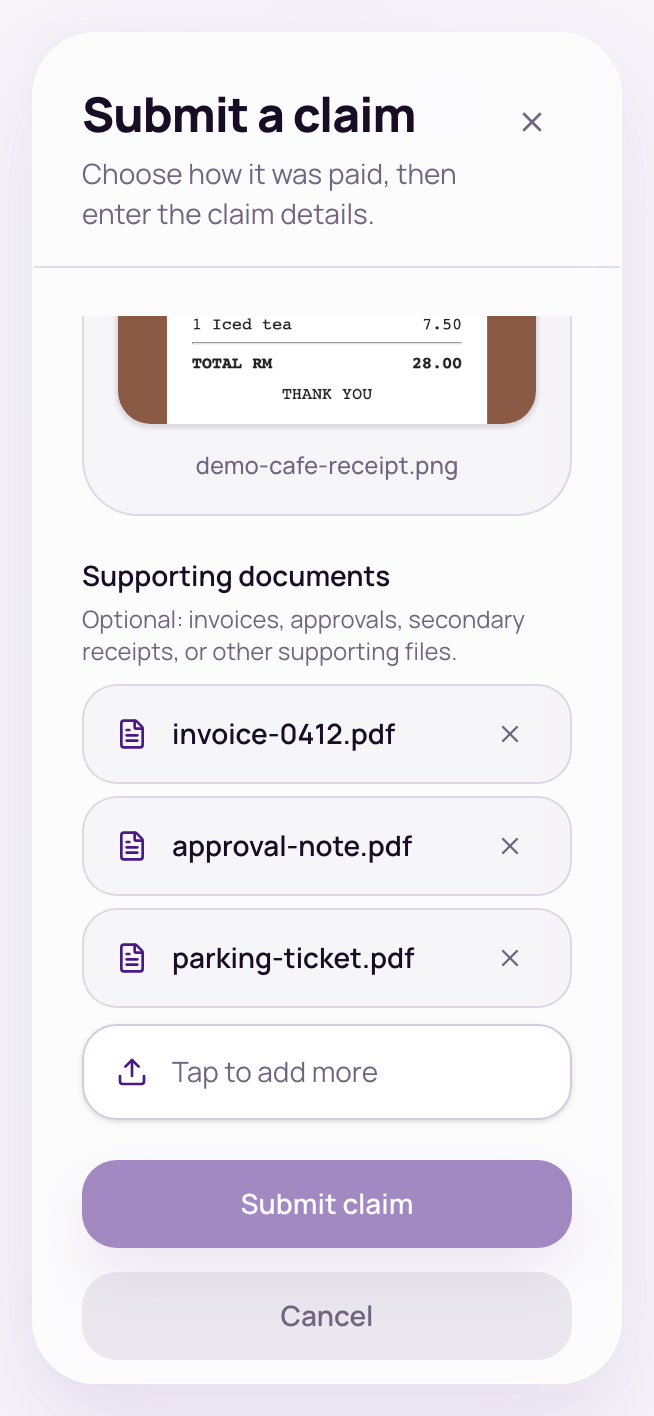
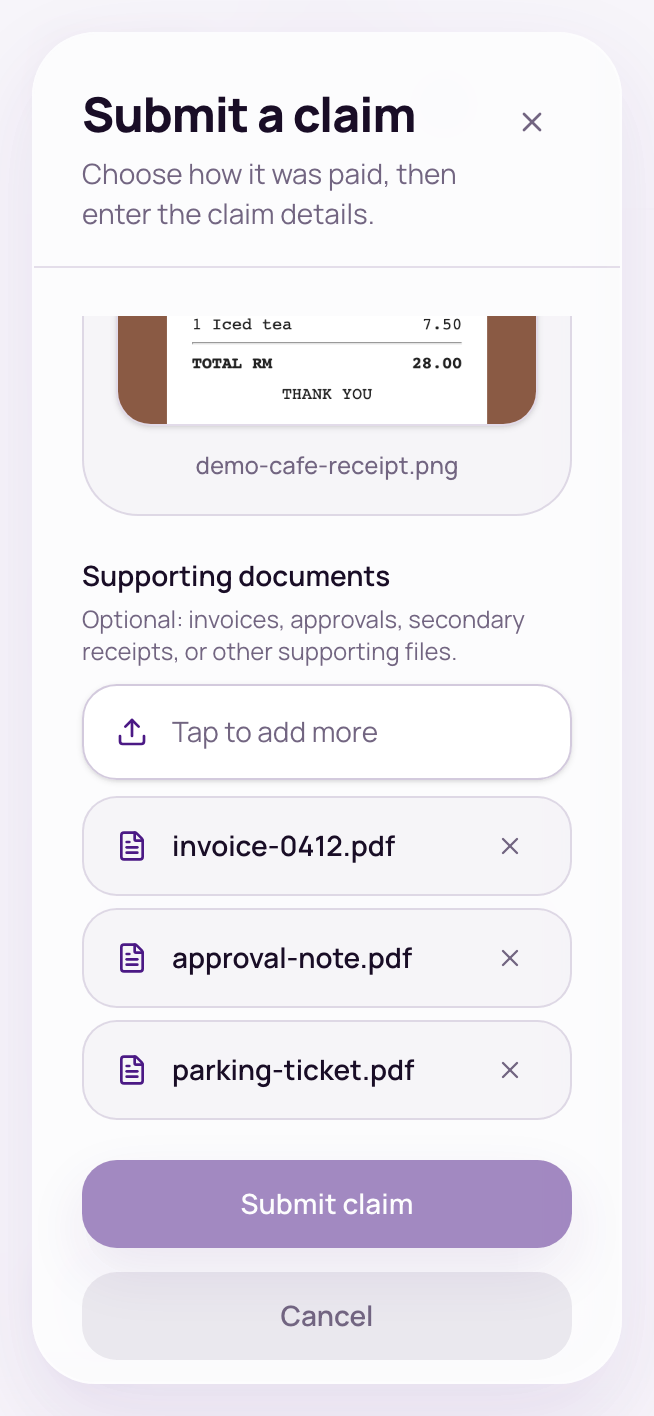
docs: what's new, API docs and guides for optional receipts and Xero attachments

diff --git a/user-guide/altomatehr-employee-guide.html b/user-guide/altomatehr-employee-guide.html
@@ -7,7 +7,7 @@
   Bookmark: this page is correct as of this commit on main. The next update
   re-checks every user-visible change after it — from any branch — then
   moves it forward.
-  user-guide-covered-up-to: 1fcdabc
+  user-guide-covered-up-to: 61cde11
 -->
 <html lang="en">
 <head>
@@ -705,11 +705,12 @@
       <li><h4>Who paid?</h4><p><strong>My own money</strong> (you'll be reimbursed) or <strong>Company money</strong>
         (a company card or account).</p></li>
       <li><h4>What kind?</h4><p><strong>Expense claim</strong> or <strong>Mileage claim</strong>.</p></li>
-      <li><h4>Attach the main receipt</h4><p>For an expense, the main receipt is required. Attach it first — until you do,
-        both buttons stay greyed out. Then tap <span class="btn-name">Read receipt &amp; continue</span> and the app reads
-        it and fills in the details. Prefer to type them yourself? Tap
-        <span class="btn-name">Skip AI and fill manually</span>. That only skips the reading — your receipt is still
-        attached to the claim.</p></li>
+      <li><h4>Attach the main receipt</h4><p>A receipt is optional, but attaching one makes the claim easier to approve. Tap the
+        upload box and choose a photo or PDF. Then tap <span class="btn-name">Read receipt &amp; continue</span> and the
+        app reads it and fills in the details. No receipt to hand? The same button reads
+        <span class="btn-name">Continue</span> and takes you straight to the form. Prefer to type the details yourself?
+        Tap <span class="btn-name">Skip AI and fill manually</span>. That only skips the reading — if you attached a
+        receipt, it's still attached to the claim.</p></li>
       <li><h4>Check the details, then submit</h4><p><strong>Check every field — especially the amount.</strong> Then
         <span class="btn-name">Submit claim</span>.</p></li>
     </ol>
@@ -721,7 +722,8 @@
       <li><strong>Spending at</strong> — the shop or supplier (required for company money).</li>
       <li><strong>Supporting documents</strong> — anything else, like an invoice. Each time you tap
         <span class="btn-name">Tap to add supporting documents</span> and choose files, they're added to the list, so
-        you can pick a few now and more later. Every file is listed with a ✕ button to remove it. A claim can have up
+        you can pick a few now and more later. The button stays above the list and changes to
+        <span class="btn-name">Tap to add more</span> once you have a file; every file below it has a ✕ button to remove it. A claim can have up
         to 10; once you reach that, the button greys out.</li>
     </ul>
     <h3>Mileage claims</h3>
@@ -739,7 +741,7 @@
           <p class="shot-cap">Who paid?</p>
         </div>
         <div class="shot-item">
-          <img src="shots/employee/claim-receipt.png" alt="The Attach the main receipt step with a receipt attached, and the Read receipt &amp; continue and Skip AI and fill manually buttons" loading="lazy">
+          <img src="shots/employee/claim-receipt.png" alt="The Attach the main receipt step with no file attached, marked Optional, with the Continue and Skip AI and fill manually buttons both available" loading="lazy">
           <p class="shot-cap">Attach the main receipt</p>
         </div>
         <div class="shot-item">
@@ -747,7 +749,7 @@
           <p class="shot-cap">Claim details</p>
         </div>
         <div class="shot-item">
-          <img src="shots/employee/claim-supporting.png" alt="The claim details form with three supporting documents listed, each with a remove button, and Tap to add more" loading="lazy">
+          <img src="shots/employee/claim-supporting.png" alt="The claim details form with Tap to add more above a list of three supporting documents, each with a remove button" loading="lazy">
           <p class="shot-cap">Supporting documents</p>
         </div>
       </div>

diff --git a/api-docs/claims.html b/api-docs/claims.html
@@ -602,6 +602,15 @@
         <ul>
           <li>Only <code>APPROVED</code> claims can be pushed.</li>
           <li>A claim with <code>settlement</code> <code>PAYROLL</code> is refused, so it can't be paid twice. It is reimbursed through payroll instead.</li>
+          <li>
+            After the bill (or, for a company-paid claim, the spend-money transaction) is created,
+            the claim's main receipt and every supporting document are attached to it in Xero, so they
+            show in its Files panel. A file already in Xero Files is attached as it is; one kept on
+            AltomateHR is uploaded to a <code>Claims</code> folder first. This is best effort and
+            happens after the claim is marked synced: a file that won't attach is skipped and never
+            turns a successful push into an error, so the response doesn't say which files made it.
+            A claim with no receipt is still pushed.
+          </li>
         </ul>
       </section>
 
@@ -611,7 +620,7 @@
           <span class="path">/claims/bulk/xero-sync</span>
           <span class="tag scope">claims:write</span>
         </div>
-        <p>Push many approved claims to Xero in one call. They are sent one after another, each judged on its own.</p>
+        <p>Push many approved claims to Xero in one call. They are sent one after another, each judged on its own. As for <a href="#xero-sync">a single push</a>, each claim's receipt and supporting documents are attached to its Xero record on a best-effort basis and never make a push fail.</p>
         <h3>Request body</h3>
         <div class="table-wrap">
           <table>

diff --git a/user-guide/altomatehr-admin-guide.html b/user-guide/altomatehr-admin-guide.html
@@ -7,7 +7,7 @@
   Bookmark: this page is correct as of this commit on main. The next update
   re-checks every user-visible change after it — from any branch — then
   moves it forward.
-  user-guide-covered-up-to: 1fcdabc
+  user-guide-covered-up-to: 61cde11
 -->
 <html lang="en">
 <head>
@@ -1068,7 +1068,9 @@
         <strong>Don't send anywhere</strong>. Each route shows two lines, <em>Own money</em> and <em>Company money</em>:
         <ul>
           <li><strong>Sync to Xero</strong> — own-money claims become a bill in Xero to pay the employee back (choose
-            Awaiting payment or Draft); company-money claims become Spend Money in Xero, from the bank account that paid.</li>
+            Awaiting payment or Draft); company-money claims become Spend Money in Xero, from the bank account that paid. The main receipt and
+            every supporting document are attached to the bill or Spend Money, so they show in its Files panel in Xero.
+            If a file can't be attached, the claim still counts as synced.</li>
           <li><strong>Add to payroll</strong> — own-money claims are reimbursed through the employee's pay; company-money
             claims go to Xero as Spend Money, since there's nobody to reimburse. Without a Xero connection, a
             company-money claim stays approved in AltomateHR.</li>

diff --git a/frontend/src/features/whats-new/lib/entries.ts b/frontend/src/features/whats-new/lib/entries.ts
@@ -8,7 +8,7 @@
 //
 // Bookmark: the last commit on main these notes already cover. The next update
 // writes up everything after it — from any branch — then moves it forward.
-// whats-new-covered-up-to: 1fcdabc
+// whats-new-covered-up-to: 61cde11
 
 export type WhatsNewEntry = {
   /** Release day, yyyy-MM-dd (Malaysia time). Also what "unread" compares. */
@@ -31,6 +31,7 @@ export const WHATS_NEW: WhatsNewEntry[] = [
     ],
     improved: [
       "Claims: \"Skip and fill manually\" is now called \"Skip AI and fill manually\". If you attached a receipt, it stays with your claim.",
+      "Admins: when you sync a claim to Xero, its receipt and supporting documents are now attached to the bill or spend money, so they show in Xero.",
     ],
     fixed: [
       "Claims: adding more supporting documents no longer removes the ones you already added. You can attach up to 10, and remove any with the ✕.",

diff --git a/api-docs/index.html b/api-docs/index.html
@@ -25,7 +25,7 @@
   Bookmark: the pages that exist are correct as of this commit on main. The
   next update re-checks every controller/DTO changed after it — from any
   branch — then moves it forward.
-  api-docs-covered-up-to: 1fcdabc
+  api-docs-covered-up-to: 61cde11
 -->
 <div class="layout">
   <nav class="sidebar" aria-label="Documentation">
